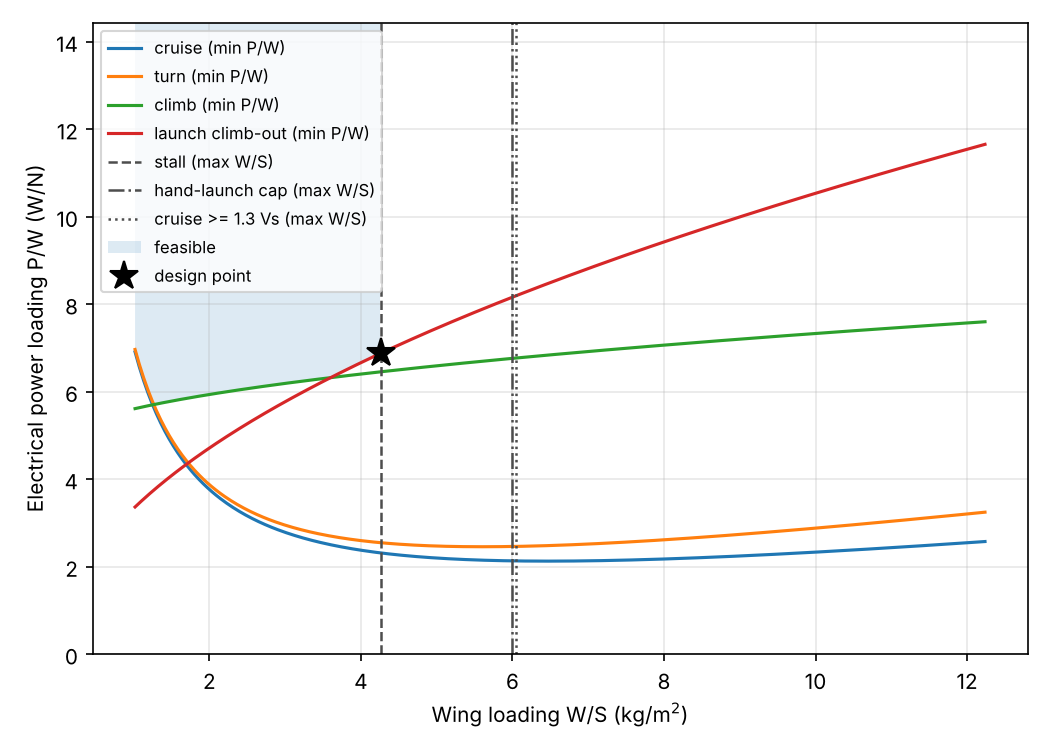
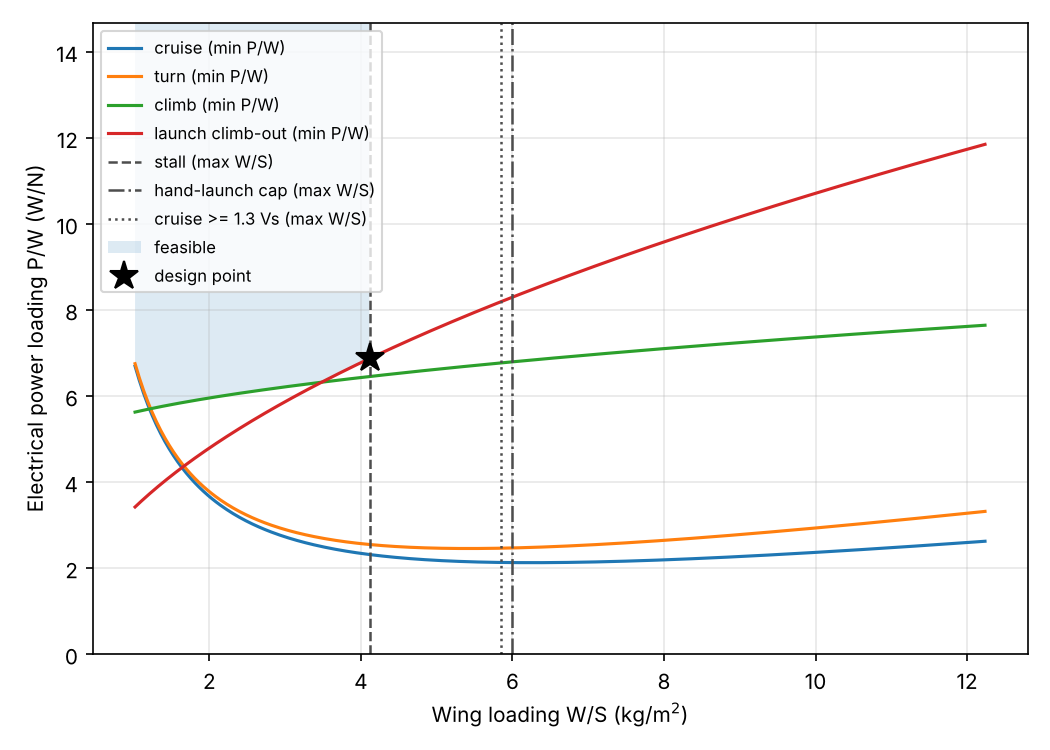
Widen margins: portrait camera, 70% trigger-rate margin, 50 ha battery, hot-day design
- Camera mounted long side along track: needs ~0.55 Hz instead of ~0.98 Hz,
  and the plan may use only 70 % of the proven camera rate (CAM-1a)
- GSD is never relaxed as a fallback (MIS-2a); overlap and lens are
- Airspeed window must be >= 3 m/s wide (AC-9): now 11.7-19.2 m/s
- Battery sized for 50 ha with 30 % reserve x 1.25 margin (MIS-4a)
- Design atmosphere ISA+25 at 1220 m (MIS-4b)

Claude-Session: https://claude.ai/code/session_01998wzqfZjTKf81wyCez24v

diff --git a/src/manta_mapper/constraints.py b/src/manta_mapper/constraints.py
@@ -164,16 +164,30 @@ class SizingSummary:
     cruise_l_over_d: float
     cruise_power_elec_w: float  # propulsion only
     peak_power_elec_w: float  # max over all power curves (motor sizing)
-    airspeed_window_m_s: tuple[float, float]  # (1.3 Vs, camera trigger limit)
+    airspeed_window_m_s: tuple[float, float]  # (1.3 Vs, camera trigger limit with margin)
+    min_window_m_s: float  # AC-9
     survey: SurveyPlan
     mission_time_s: float
-    energy_required_wh: float  # usable energy incl. reserve
+    energy_used_wh: float  # energy THIS mission draws from the pack
+    energy_required_wh: float  # usable energy THIS mission needs incl. reserve
+    battery_energy_wh: float  # usable energy the pack must hold (stretch area, reserve, margin)
     battery_mass_kg: float
+
+    @property
+    def airspeed_window_width_m_s(self) -> float:
+        lo, hi = self.airspeed_window_m_s
+        return hi - lo
 
     @property
     def airspeed_window_ok(self) -> bool:
         lo, hi = self.airspeed_window_m_s
-        return lo <= self.survey.airspeed_m_s <= hi
+        in_window = lo <= self.survey.airspeed_m_s <= hi
+        return in_window and self.airspeed_window_width_m_s >= self.min_window_m_s
+
+    @property
+    def reserve_on_landing(self) -> float:
+        """Fraction of the pack's usable energy left after THIS mission."""
+        return 1 - self.energy_used_wh / self.battery_energy_wh
 
 
 def size_aircraft(
@@ -184,9 +198,9 @@ def size_aircraft(
 ) -> SizingSummary:
     """Turn the constraint-chart design point into wing area, power and battery.
 
-    Battery energy covers propulsion plus avionics for the survey and the fixed
-    overhead (launch, climb, transit, landing), then is scaled up so that the
-    reserve fraction is still in the pack on landing.
+    Mission energy covers propulsion plus avionics for the survey and the fixed
+    overhead (launch, climb, transit, landing). The pack is sized for the
+    stretch area with the reserve still in it on landing, times a design margin.
     """
     a, lim = req.assumptions, req.limits
     plan = plan_survey(req, area_ha=area_ha)
@@ -207,10 +221,19 @@ def size_aircraft(
     p_cruise = w * v * cd / cl / (a.eta_prop_cruise * a.eta_motor_esc)
     p_peak = w * result.design_power_loading
 
-    t_mission = plan.survey_time_s + req.survey.overhead_time_s
-    energy_used_wh = (p_cruise + a.avionics_power_w) * t_mission / 3600
+    def mission_energy(p: SurveyPlan) -> tuple[float, float]:
+        t = p.survey_time_s + req.survey.overhead_time_s
+        return t, (p_cruise + a.avionics_power_w) * t / 3600
+
+    t_mission, energy_used_wh = mission_energy(plan)
     energy_required_wh = energy_used_wh / (1 - lim.battery_reserve)
-    battery_mass = energy_required_wh / (a.battery_specific_energy_wh_kg * a.battery_usable_fraction)
+
+    # The pack is sized for the stretch area, then given a design margin, so
+    # the minimum mission lands with far more than the required reserve.
+    stretch = plan_survey(req, area_ha=max(plan.area_ha, req.survey.area_stretch_ha))
+    _, stretch_wh = mission_energy(stretch)
+    battery_energy_wh = stretch_wh / (1 - lim.battery_reserve) * lim.energy_design_margin
+    battery_mass = battery_energy_wh / (a.battery_specific_energy_wh_kg * a.battery_usable_fraction)
 
     return SizingSummary(
         mass_kg=mass_kg,
@@ -223,9 +246,12 @@ def size_aircraft(
         cruise_power_elec_w=p_cruise,
         peak_power_elec_w=p_peak,
         airspeed_window_m_s=(1.3 * vs, max_airspeed_for_trigger(req, plan.gsd_achieved_m)),
+        min_window_m_s=lim.min_airspeed_window_m_s,
         survey=plan,
         mission_time_s=t_mission,
+        energy_used_wh=energy_used_wh,
         energy_required_wh=energy_required_wh,
+        battery_energy_wh=battery_energy_wh,
         battery_mass_kg=battery_mass,
     )
 

diff --git a/tests/test_survey.py b/tests/test_survey.py
@@ -14,8 +14,10 @@ from manta_mapper.survey import (
     turn_radius,
 )
 
-REQ = MissionRequirements()
+REQ = MissionRequirements()  # baseline: portrait camera, 75 % / 65 % overlap
 CAM = REQ.camera
+# Landscape (long side across track) keeps the hand calcs below simple.
+LAND = replace(REQ, camera=replace(CAM, long_side_across_track=True))
 
 
 def test_altitude_for_3cm_gsd_matches_hand_calc():
@@ -28,10 +30,12 @@ def test_gsd_and_altitude_are_inverse():
         assert altitude_for_gsd(CAM, gsd_at_altitude(CAM, h)) == pytest.approx(h)
 
 
-def test_footprint_long_side_across_track():
-    across, along = footprint(CAM, altitude_for_gsd(CAM, 0.03))
-    assert across == pytest.approx(4608 * 0.03)
-    assert along == pytest.approx(2592 * 0.03)
+def test_footprint_orientation():
+    h = altitude_for_gsd(CAM, 0.03)
+    across, along = footprint(LAND.camera, h)
+    assert (across, along) == (pytest.approx(4608 * 0.03), pytest.approx(2592 * 0.03))
+    across, along = footprint(CAM, h)  # portrait baseline swaps them
+    assert (across, along) == (pytest.approx(2592 * 0.03), pytest.approx(4608 * 0.03))
 
 
 def test_turn_radius_30deg():
@@ -44,8 +48,8 @@ def test_blur_limit():
     assert max_exposure_for_blur(20, 0.03, 0.5) == pytest.approx(7.5e-4)
 
 
-def test_plan_25ha_square():
-    p = plan_survey(REQ, area_ha=25, airspeed_m_s=14)
+def test_plan_25ha_square_landscape():
+    p = plan_survey(LAND, area_ha=25, airspeed_m_s=14)
     assert not p.altitude_limited
     assert p.photo_spacing_m == pytest.approx(2592 * 0.03 * 0.25)
     assert p.line_spacing_m == pytest.approx(4608 * 0.03 * 0.35)
@@ -57,7 +61,16 @@ def test_plan_25ha_square():
     assert p.total_line_length_m >= p.ideal_line_length_m
     # Downwind leg: 19 m/s over 19.44 m -> 1.023 s between photos
     assert p.trigger_interval_min_s == pytest.approx(19.44 / 19.0)
-    assert p.trigger_ok
+    # 0.98 Hz needed but only 70 % of the 1 Hz camera may be used
+    assert not p.trigger_ok
+
+
+def test_portrait_baseline_halves_trigger_rate():
+    land = plan_survey(LAND, area_ha=25)
+    port = plan_survey(REQ, area_ha=25)
+    assert port.trigger_rate_max_hz == pytest.approx(land.trigger_rate_max_hz * 2592 / 4608)
+    assert port.trigger_ok
+    assert port.total_path_m > land.total_path_m  # the price: more lines
 
 
 def test_survey_time_includes_wind_penalty():
@@ -76,12 +89,14 @@ def test_fallback_4cm_is_altitude_limited():
 
 
 def test_trigger_rate_flagged_when_too_fast():
-    slow_cam = replace(REQ, camera=replace(CAM, max_trigger_rate_hz=0.5))
+    slow_cam = replace(REQ, camera=replace(CAM, max_trigger_rate_hz=0.7))
     assert not plan_survey(slow_cam).trigger_ok
 
 
 def test_max_airspeed_for_trigger():
-    assert max_airspeed_for_trigger(REQ) == pytest.approx(19.44 * 1.0 - 5.0)
+    # landscape: 19.44 m photo spacing x (0.7 x 1 Hz) - 5 m/s wind
+    assert max_airspeed_for_trigger(LAND) == pytest.approx(19.44 * 0.7 - 5.0)
+    assert max_airspeed_for_trigger(REQ) == pytest.approx(4608 * 0.03 * 0.25 * 0.7 - 5.0)
 
 
 def test_airspeed_must_beat_wind():

diff --git a/tests/test_constraints.py b/tests/test_constraints.py
@@ -1,4 +1,5 @@
 from dataclasses import replace
+from pathlib import Path
 
 import numpy as np
 import pytest
@@ -13,6 +14,7 @@ from manta_mapper.constraints import (
 from manta_mapper.requirements import G0, MissionRequirements
 
 REQ = MissionRequirements()
+ROOT = Path(__file__).resolve().parents[1]
 
 
 # --- atmosphere ---------------------------------------------------------------
@@ -44,12 +46,13 @@ def test_stall_limit_matches_hand_calc():
 
 
 def test_stall_drives_design_below_hand_launch_cap():
-    # With CL_max = 1.0 on a hot day, a 9 m/s stall allows only ~4.8 kg/m^2,
-    # so stall (not the 6 kg/m^2 cap) is the active wing-loading limit.
-    res = constraint_analysis(REQ)
+    # With CL_max = 1.0, a 9 m/s stall at 1220 m on an ISA+25 day allows only
+    # ~4.1 kg/m^2, so stall (not the 6 kg/m^2 cap) is the active limit.
+    req = MissionRequirements.from_toml(ROOT / "config" / "mission.toml")
+    res = constraint_analysis(req)
     assert res.driving_limit == "stall"
-    assert res.design_wing_loading_kg_m2 < REQ.limits.max_wing_loading_kg_m2
-    assert res.design_wing_loading_kg_m2 == pytest.approx(4.81, abs=0.02)
+    assert res.design_wing_loading_kg_m2 < req.limits.max_wing_loading_kg_m2
+    assert res.design_wing_loading_kg_m2 == pytest.approx(4.12, abs=0.02)
 
 
 def test_cap_drives_when_clmax_is_high():
@@ -94,7 +97,27 @@ def test_size_aircraft_consistency():
 def test_reserve_is_respected():
     sz = size_aircraft(REQ, mass_kg=1.5)
     used = (sz.cruise_power_elec_w + REQ.assumptions.avionics_power_w) * sz.mission_time_s / 3600
+    assert used == pytest.approx(sz.energy_used_wh)
     assert used / sz.energy_required_wh == pytest.approx(1 - REQ.limits.battery_reserve)
+
+
+def test_battery_sized_for_stretch_with_margin():
+    lim = REQ.limits
+    small = size_aircraft(REQ, 1.5, area_ha=25)
+    big = size_aircraft(REQ, 1.5, area_ha=50)
+    assert small.battery_energy_wh == pytest.approx(big.battery_energy_wh)
+    # Stretch mission lands with more than the reserve because of the margin:
+    # 1 - 0.7 / 1.25 = 0.44
+    assert big.reserve_on_landing == pytest.approx(1 - (1 - lim.battery_reserve) / lim.energy_design_margin)
+    assert small.reserve_on_landing > big.reserve_on_landing
+
+
+def test_airspeed_window_needs_minimum_width():
+    sz = size_aircraft(REQ, 1.5)
+    assert sz.airspeed_window_width_m_s >= REQ.limits.min_airspeed_window_m_s
+    assert sz.airspeed_window_ok
+    land = replace(REQ, camera=replace(REQ.camera, long_side_across_track=True))
+    assert not size_aircraft(land, 1.5).airspeed_window_ok  # landscape at 1 Hz is too tight
 
 
 def test_stretch_mission_needs_more_energy():

diff --git a/src/manta_mapper/__main__.py b/src/manta_mapper/__main__.py
@@ -23,7 +23,8 @@ def report(req: MissionRequirements, mass_kg: float) -> str:
             out(f"Photo every {sv.photo_spacing_m:.1f} m, lines every {sv.line_spacing_m:.1f} m")
             out(f"Downwind ground speed {sv.max_groundspeed_m_s:.1f} m/s -> trigger every "
                 f"{sv.trigger_interval_min_s:.2f} s ({sv.trigger_rate_max_hz:.2f} Hz, "
-                f"{'OK' if sv.trigger_ok else 'TOO FAST'} for {req.camera.max_trigger_rate_hz:g} Hz camera)")
+                f"{'OK' if sv.trigger_ok else 'TOO FAST'}: limit is {req.camera.trigger_rate_margin:.0%} "
+                f"of the {req.camera.max_trigger_rate_hz:g} Hz camera)")
             out(f"Shutter must be <= 1/{1/sv.max_exposure_s:.0f} s for {req.survey.max_blur_px} px blur")
             out("")
             out("== Constraint analysis ==")
@@ -37,14 +38,16 @@ def report(req: MissionRequirements, mass_kg: float) -> str:
                 f"mean chord {sz.mean_chord_m*1000:.0f} mm")
             out(f"Stall {sz.stall_speed_m_s:.1f} m/s, cruise CL {sz.cruise_cl:.2f}, L/D {sz.cruise_l_over_d:.1f}")
             lo, hi = sz.airspeed_window_m_s
-            out(f"Airspeed window {lo:.1f}-{hi:.1f} m/s, cruise {sv.airspeed_m_s:.1f} m/s "
-                f"{'OK' if sz.airspeed_window_ok else 'OUTSIDE WINDOW'}")
+            out(f"Airspeed window {lo:.1f}-{hi:.1f} m/s ({hi - lo:.1f} m/s wide, need >= {sz.min_window_m_s:g}), "
+                f"cruise {sv.airspeed_m_s:.1f} m/s {'OK' if sz.airspeed_window_ok else 'NOT OK'}")
+            out(f"Battery: >= {sz.battery_energy_wh:.0f} Wh usable (~{sz.battery_mass_kg*1000:.0f} g of cells), "
+                f"sized for {req.survey.area_stretch_ha:g} ha x {req.limits.energy_design_margin:g} margin")
             out(f"Cruise power {sz.cruise_power_elec_w:.0f} W, peak (motor sizing) {sz.peak_power_elec_w:.0f} W")
             out("")
             out("== Missions ==")
         out(f"{label:>8} {area:4.0f} ha: {sv.n_lines} lines, {sv.total_path_m/1000:.1f} km, {sv.n_photos} photos, "
-            f"{sz.mission_time_s/60:.1f} min, battery >= {sz.energy_required_wh:.1f} Wh "
-            f"(~{sz.battery_mass_kg*1000:.0f} g cells) with {req.limits.battery_reserve:.0%} reserve")
+            f"{sz.mission_time_s/60:.1f} min, uses {sz.energy_used_wh:.1f} Wh, "
+            f"lands with {sz.reserve_on_landing:.0%} left (need {req.limits.battery_reserve:.0%})")
     return "\n".join(lines)
 
 

diff --git a/src/manta_mapper/requirements.py b/src/manta_mapper/requirements.py
@@ -31,10 +31,17 @@ class Camera:
     height_px: int = 2592
     pixel_pitch_m: float = 1.4e-6
     focal_length_m: float = 4.74e-3
-    # Long side of the sensor across the flight track: widest swath, so the
-    # fewest flight lines. Along-track spacing is then set by the short side.
-    long_side_across_track: bool = True
-    max_trigger_rate_hz: float = 1.0  # CAM-1: what the Pi Zero 2 W must sustain
+    # Baseline: long side of the sensor ALONG the flight track ("portrait").
+    # Photos are then ~1.8x further apart, so the camera needs about half the
+    # trigger rate, at the cost of ~1.7x more flight-line length. Energy is
+    # cheap for this mission and the Pi's sustained still rate is the biggest
+    # unknown, so we spend energy to buy camera margin. If the CAM-1 bench test
+    # shows plenty of speed, set this True ("landscape") to halve flight time.
+    long_side_across_track: bool = False
+    max_trigger_rate_hz: float = 1.0  # CAM-1: sustained rate proven on the bench
+    # CAM-1a: the plan may use at most this fraction of the proven rate, leaving
+    # room for SD-card stalls, gusts and ground-speed spikes.
+    trigger_rate_margin: float = 0.7
     min_exposure_s: float = 1 / 4000
 
 
@@ -61,7 +68,8 @@ class Environment:
     """Atmosphere at the flying field. Set ``field_elevation_m`` to your site."""
 
     field_elevation_m: float = 0.0
-    temperature_offset_K: float = 15.0  # ISA + 15 K: a hot summer day is the sizing case
+    # ISA + 25 K: about 32 C at 1220 m, a hot Las Cruces summer afternoon.
+    temperature_offset_K: float = 25.0
 
 
 @dataclass(frozen=True)
@@ -72,6 +80,10 @@ class AircraftLimits:
     max_wing_loading_kg_m2: float = 6.0  # AC-2 (hand launch)
     max_takeoff_mass_kg: float = 2.0  # AC-3
     battery_reserve: float = 0.30  # MIS-4: fraction of usable energy left on landing
+    # MIS-4a: battery sized for the stretch area, then x1.25 for drag and
+    # efficiency guesses being optimistic. Costs ~100 g, removes a whole risk.
+    energy_design_margin: float = 1.25
+    min_airspeed_window_m_s: float = 3.0  # AC-9: room between 1.3 Vs and the camera limit
     min_climb_rate_m_s: float = 2.5  # AC-5
     launch_climb_gradient: float = 0.15  # AC-6: ~8.5 deg climb straight off the hand
 

diff --git a/src/manta_mapper/survey.py b/src/manta_mapper/survey.py
@@ -166,16 +166,17 @@ def plan_survey(
         max_groundspeed_m_s=v_down,
         trigger_interval_min_s=trigger_interval,
         trigger_rate_max_hz=trigger_rate,
-        trigger_ok=trigger_rate <= cam.max_trigger_rate_hz,
+        trigger_ok=trigger_rate <= cam.max_trigger_rate_hz * cam.trigger_rate_margin,
         max_exposure_s=max_exposure_for_blur(v_down, gsd, s.max_blur_px),
         survey_time_s=survey_time,
     )
 
 
 def max_airspeed_for_trigger(req: MissionRequirements, gsd_m: float | None = None) -> float:
-    """Highest airspeed at which the camera keeps up on the downwind leg."""
+    """Highest airspeed at which the camera keeps up (with margin) on the downwind leg."""
     s, cam = req.survey, req.camera
     gsd = s.gsd_target_m if gsd_m is None else gsd_m
     h = min(altitude_for_gsd(cam, gsd), s.max_altitude_agl_m)
     _, along = footprint(cam, h)
-    return along * (1 - s.forward_overlap) * cam.max_trigger_rate_hz - s.design_wind_m_s
+    rate = cam.max_trigger_rate_hz * cam.trigger_rate_margin
+    return along * (1 - s.forward_overlap) * rate - s.design_wind_m_s

diff --git a/docs/requirements.md b/docs/requirements.md
@@ -14,9 +14,12 @@ Verification methods: **A** analysis (pipeline), **T** test (bench or flight),
 |---|---|---|---|---|
 | MIS-1 | Area mapped in one flight | 25 ha | 50 ha | A, then D (flight) |
 | MIS-2 | Ground sample distance (GSD) at image centre | ≤ 3.0 cm/px | — | A, T (VAL-9) |
-| MIS-2a | Fallback GSD if CAM-1 fails | best available at the 121.9 m ceiling: **3.6 cm/px** with the standard lens (4 cm/px would need 135 m) | — | A |
-| MIS-3 | Photo overlap, forward / side | ≥ 75 % / ≥ 65 % | 80 % / 70 % | A, T (WebODM report) |
+| MIS-2a | GSD is never relaxed to save the camera. If CAM-1 falls short, in order: (1) forward overlap 75 → 70 % (MIS-3 minimum), (2) Camera Module 3 Wide. A coarser GSD is not a fallback: with the standard lens, 4 cm/px needs 135 m, above REG-2 | 3.0 cm/px kept | — | A |
+| MIS-3 | Photo overlap, forward / side | plan 75 % / 65 %; never below 70 % / 60 % | 80 % / 70 % | A, T (WebODM report) |
+| MIS-3a | Camera mounted with the sensor's long side along the flight track ("portrait"): photos ~1.8× further apart, so about half the trigger rate, for ~1.7× more flight-line length. Switch to landscape only if CAM-1 proves ≥ 1.4 Hz | yes | — | I |
 | MIS-4 | Battery left on landing after the full mission incl. 4 min of launch, climb, transit and landing | ≥ 30 % of usable energy | — | A, T (battery log) |
+| MIS-4a | Battery sized for the **stretch** area (50 ha) with the MIS-4 reserve, × 1.25 for optimistic drag/efficiency guesses. Predicted: 25 ha lands with ~66 %, 50 ha with ~44 % | ≥ 1.25 × predicted | — | A, T |
+| MIS-4b | Design atmosphere: field elevation 1220 m (NMSU area, ~4000 ft MSL), ISA + 25 °C (~32 °C) | — | — | A |
 | MIS-5 | Survey still meets MIS-2/3 in steady wind | 5 m/s | 7 m/s | A, T |
 | MIS-6 | Products | orthomosaic, DSM, 3D model from WebODM | — | D |
 | MIS-7 | Fully autonomous survey from launch climb-out to approach (ArduPilot AUTO) | yes | autonomous landing | D |
@@ -35,7 +38,7 @@ Verification methods: **A** analysis (pipeline), **T** test (bench or flight),
 
 | ID | Requirement | Value | Verify |
 |---|---|---|---|
-| AC-1 | Stall speed at max take-off mass, ISA+15 °C at the field | ≤ 9 m/s (hand launch) | A, T (VAL-3) |
+| AC-1 | Stall speed at max take-off mass in the MIS-4b design atmosphere | ≤ 9 m/s (hand launch) | A, T (VAL-3) |
 | AC-2 | Wing loading | ≤ 6 kg/m² (hand launch) | A, I (weigh) |
 | AC-3 | Max take-off mass | ≤ 2.0 kg | A, I |
 | AC-4 | Configuration: tailless blended-wing-body, swept outer panels, drooped tip fins, pusher prop, outer-panel elevons, fixed-wing only | yes | I |
@@ -43,7 +46,7 @@ Verification methods: **A** analysis (pipeline), **T** test (bench or flight),
 | AC-6 | Climb gradient right after hand launch at 1.2 Vs | ≥ 0.15 (8.5°) | A, T |
 | AC-7 | Static margin at cruise CG | 5–10 % MAC | A, T (VAL-6) |
 | AC-8 | Self-trimming: trims at cruise with elevon deflection | ≤ ±3° | A, T (log) |
-| AC-9 | Airspeed window: 1.3 Vs ≤ cruise ≤ (camera trigger limit − wind) | non-empty, cruise inside | A |
+| AC-9 | Airspeed window from 1.3 Vs up to the camera limit (CAM-1a rate × photo spacing − wind), with cruise inside it | ≥ 3 m/s wide | A |
 | AC-10 | Structure: spar + skin carry launch, gust and landing loads | 4 g limit, 1.5 safety factor | A (FEA), T (wingtip load test) |
 | AC-11 | Removable outer panels; replaceable nose, tips and skid | yes | I |
 | AC-12 | Payload bay fits camera, Pi, battery with top hatch access | yes | I (CAD) |
@@ -54,7 +57,9 @@ Verification methods: **A** analysis (pipeline), **T** test (bench or flight),
 
 | ID | Requirement | Value | Verify |
 |---|---|---|---|
-| CAM-1 | Pi Zero 2 W + Camera Module 3 sustains full-resolution stills at the needed rate | ≥ 1 Hz for 30 min without dropped frames | T (bench test, before first flight) |
+| CAM-1 | Pi Zero 2 W + Camera Module 3 sustains full-resolution stills | ≥ 1 Hz for 40 min without dropped frames | T (bench test, before first flight) |
+| CAM-1a | The flight plan uses at most 70 % of the CAM-1 rate on the downwind leg (baseline needs 0.55 Hz at 14 m/s in 5 m/s wind) | ≤ 0.7 × CAM-1 | A |
+| CAM-1b | Trigger by distance (ArduPilot `CAM_TRIGG_DIST`), not by time, so photo spacing holds on upwind and downwind legs | yes | I (params), T (log) |
 | CAM-2 | Forward-motion blur at the downwind ground speed | ≤ 0.5 px (shutter ≤ 1/1300 s at 3 cm, 19 m/s) | A, T (inspect images) |
 | CAM-3 | Every photo is geotagged from ArduPilot CAM messages | ≥ 99 % of photos | T |
 | CAM-4 | Camera points straight down in cruise | within 3° | I, T (log pitch) |
@@ -99,7 +104,6 @@ pipeline prediction for the as-built aircraft (as-built mass and CG).
 
 ## Open items
 
-- Typical summer temperature at the flying site (field elevation set to 1220 m for the NMSU area; sets air density for AC-1).
-- CAM-1 bench test result: if 1 Hz full-res isn't sustainable, fall back per MIS-2a or reduce forward overlap.
+- CAM-1 bench test result: if below 1 Hz, apply MIS-2a; if ≥ 1.4 Hz, consider landscape mounting (MIS-3a) to shorten flights.
 - Hybrid printed centre body + foam outer panels vs fully printed (affects weights and cost).
 - Possible extra: export the pipeline model to ArduPilot SITL.

diff --git a/docs/plan.md b/docs/plan.md
@@ -29,7 +29,7 @@ visible and mistakes surface early.
 | Milestone | Done when |
 |---|---|
 | M3.1 Build | airframe printed and assembled; mass and CG measured (VAL-4) |
-| M3.2 Bench tests | camera trigger at ≥ 1 Hz for 30 min (CAM-1); failsafes (REG-5); Remote ID |
+| M3.2 Bench tests | camera trigger at ≥ 1 Hz for 40 min (CAM-1) and distance triggering (CAM-1b); failsafes (REG-5); Remote ID |
 | M3.3 Glide test | manual hand-launched glide, trim and CG confirmed |
 | M3.4 Manual flights | stall, glides for the drag polar, cruise power, pitch doublets (VAL-1 to VAL-7) |
 | M3.5 Autonomous survey | 25 ha survey in AUTO, WebODM products (MIS-1, MIS-6) |
